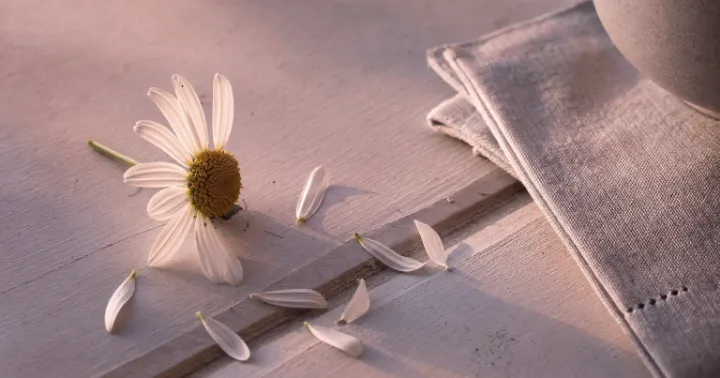
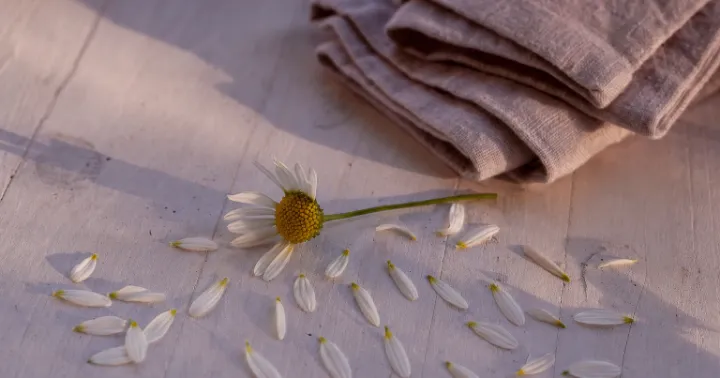
Une image de tête propre à chaque page : dix-neuf visuels refaits, sans tasse ni visage
Sept visuels servaient à deux ou trois pages à la fois, six autres tournaient
autour d'une tasse de café, un montrait un visage et deux des mains et des
verres. Dix-neuf images ont été refaites, une par page, dans la même écriture
que les autres (nature morte symbolique, lumière de fenêtre, rose et
lavande), sans personne, sans texte, sans tasse :

- jeu de plateau : deux pions sur le chemin d'un plateau, un dé
- quiz amoureux : deux cœurs de papier épinglés sur une ficelle
- qui de nous deux : deux ardoises vierges face à face
- amour ou habitude : deux paires de chaussons au pied du lit
- action ou vérité coquin : bandeau de soie et carte face cachée
- roue des gages : une roue de la fortune aux cases pastel
- action ou vérité : la bouteille au milieu des coussins
- Z'Amours : deux buzzers de plateau télé
- questions couple : un éventail de cartes vierges
- relation karmique : un fil rouge en boucle infinie sur du velours
- âme sœur : les deux moitiés d'un galet fendu
- quiz gênant : un mot rose glissé sous un coussin
- m'aime-t-il encore : deux oreillers, l'un froissé, l'autre intact
- pourquoi je ne trouve pas l'amour : la boussole à aiguille en cœur, sans tasse
- premier rendez-vous : une table de bistrot et deux chaises vides
- suis-je amoureux : la marguerite effeuillée, sans tasse
- amour ou crush : un casier de lycée, un cœur collé, un mot dans la grille
- qui pourrait : deux cartes face à face sur une table basse
[…]

diff --git a/static-site/build/config.js b/static-site/build/config.js
@@ -105,28 +105,28 @@ export const QUIZ_FEATURED = {
   testDistance:      { file: 'long-distance-map',         old: 'test-distance',       alt: { fr: 'Carte du monde avec deux épingles reliées par un fil rouge', en: 'World map with two pins linked by a red thread', es: 'Mapa del mundo con dos alfileres unidos por un hilo rojo', de: 'Weltkarte mit zwei durch einen roten Faden verbundenen Nadeln', it: 'Mappa del mondo con due spilli uniti da un filo rosso' } },
   testToxic:         { file: 'wilted-rose',               old: 'test-toxic',          alt: { fr: 'Rose rouge fanée posée sur une surface grise et froide', en: 'Wilted red rose lying on a cold grey surface', es: 'Rosa roja marchita sobre una superficie gris y fría', de: 'Verwelkte rote Rose auf kalter grauer Oberfläche', it: 'Rosa rossa appassita su una fredda superficie grigia' } },
   testPervers:       { file: 'masquerade-mask',           old: null,                  alt: { fr: 'Masque de théâtre blanc à deux visages sur fond sombre, symbole de la double personnalité', en: 'White two-faced theatre mask on a dark background, symbol of a double personality', es: 'Máscara de teatro blanca de dos caras sobre fondo oscuro, símbolo de la doble personalidad', de: 'Weiße zweigesichtige Theatermaske auf dunklem Hintergrund, Symbol der Doppelpersönlichkeit', it: 'Maschera teatrale bianca a due volti su sfondo scuro, simbolo della doppia personalità' } },
-  testAmourHabitude: { file: 'two-mugs-heart',            old: null,                  alt: { fr: 'Deux tasses de café côte à côte avec une vapeur en forme de cœur, symbole de la routine du couple', en: 'Two coffee mugs side by side with heart-shaped steam, a symbol of a couple\'s routine', es: 'Dos tazas de café juntas con vapor en forma de corazón, símbolo de la rutina de la pareja', de: 'Zwei Kaffeetassen nebeneinander mit herzförmigem Dampf, Symbol der Paar-Routine', it: 'Due tazze di caffè affiancate con vapore a forma di cuore, simbolo della routine di coppia' } },
+  testAmourHabitude:  { file: 'two-slippers-bed',            old: null,                  alt: { fr: "Deux paires de chaussons côte à côte au pied d'un lit fait, une rose et une lavande, dans la lumière du matin", en: "Two pairs of slippers side by side at the foot of a made bed, one pink and one lavender, in the morning light", es: "Dos pares de pantuflas una junto a la otra al pie de una cama hecha, unas rosas y otras lavanda, con la luz de la mañana", de: "Zwei Paar Hausschuhe nebeneinander am Fußende eines gemachten Betts, eines rosa und eines lavendelfarben, im Morgenlicht", it: "Due paia di pantofole affiancate ai piedi di un letto rifatto, un paio rosa e uno lavanda, nella luce del mattino" } },
   testCoupleSain:    { file: 'healthy-plant-heart',       old: 'test-couple-sain',    alt: { fr: 'Plante verte luxuriante en forme de cœur près d\'une fenêtre', en: 'Lush green heart-shaped plant by a sunny window', es: 'Planta verde con forma de corazón junto a una ventana', de: 'Üppige herzförmige grüne Pflanze am sonnigen Fenster', it: 'Rigogliosa pianta verde a forma di cuore vicino a una finestra' } },
   testMariage:       { file: 'wedding-chapel-rings',      old: 'test-mariage',        alt: { fr: "Deux alliances dorées devant l'autel d'une chapelle de mariage", en: 'Two golden wedding rings before a wedding chapel altar', es: 'Dos anillos de boda dorados ante el altar de una capilla', de: 'Zwei goldene Eheringe vor dem Altar einer Hochzeitskapelle', it: "Due fedi nuziali dorate davanti all'altare di una cappella" } },
   testDivorce:       { file: 'divorce-rings-papers',      old: 'test-divorce',        alt: { fr: 'Deux alliances séparées sur un document déchiré', en: 'Two wedding rings apart on a torn document', es: 'Dos anillos de boda separados sobre un documento roto', de: 'Zwei getrennte Eheringe auf einem zerrissenen Dokument', it: 'Due fedi separate su un documento strappato' } },
-  quizAmoureux:      { file: 'love-letter-heart',         old: 'quiz-amoureux',       alt: { fr: "Lettre d'amour manuscrite avec un stylo plume et un cœur rouge", en: 'Handwritten love letter with a fountain pen and red heart', es: 'Carta de amor manuscrita con pluma y corazón rojo', de: 'Handgeschriebener Liebesbrief mit Füller und rotem Herz', it: "Lettera d'amore scritta a mano con penna e cuore rosso" } },
+  quizAmoureux:       { file: 'paper-hearts-string',         old: 'quiz-amoureux',       alt: { fr: "Deux cœurs en papier, un rose et un lavande, accrochés ensemble par une petite pince en bois sur une ficelle tendue", en: "Two paper hearts, one pink and one lavender, pinned together with a small wooden clothespin on a taut string", es: "Dos corazones de papel, uno rosa y otro lavanda, sujetos juntos con una pequeña pinza de madera en un cordel tenso", de: "Zwei Papierherzen, eines rosa und eines lavendelfarben, mit einer kleinen Holzklammer gemeinsam an eine gespannte Schnur geheftet", it: "Due cuori di carta, uno rosa e uno lavanda, appesi insieme con una piccola molletta di legno a uno spago teso" } },
   quizCoquin:        { file: 'naughty-date-night',        old: 'quiz-coquin',         alt: { fr: 'Ambiance romantique : deux coupes de champagne, pétales et bougie sur un lit', en: 'Romantic setting: two champagne glasses, petals and a candle on a bed', es: 'Ambiente romántico: dos copas de champán, pétalos y una vela', de: 'Romantische Szene: zwei Sektgläser, Rosenblätter und eine Kerze', it: 'Atmosfera romantica: due calici di champagne, petali e una candela' } },
   quizMarrant:       { file: 'fun-confetti',              old: 'quiz-marrant',        alt: { fr: 'Confettis colorés et ballons de fête qui explosent', en: 'Colorful confetti and party balloons bursting', es: 'Confeti colorido y globos de fiesta estallando', de: 'Buntes Konfetti und platzende Partyballons', it: 'Coriandoli colorati e palloncini di festa che esplodono' } },
   quizKnowledge:     { file: 'knowledge-lightbulb-heart', old: 'quiz-knowledge',      alt: { fr: 'Ampoule vintage dont le filament forme un petit cœur rouge', en: 'Vintage lightbulb with a filament shaped like a red heart', es: 'Bombilla vintage con filamento en forma de corazón rojo', de: 'Vintage-Glühbirne mit herzförmigem roten Glühfaden', it: 'Lampadina vintage con filamento a forma di cuore rosso' } },
   quizMost:          { file: 'most-likely-trophy',        old: 'quiz-most',           alt: { fr: 'Trophée doré orné d\'un cœur rouge sous une pluie de confettis', en: 'Golden trophy with a red heart under falling confetti', es: 'Trofeo dorado con un corazón rojo bajo confeti', de: 'Goldener Pokal mit rotem Herz unter fallendem Konfetti', it: 'Trofeo dorato con un cuore rosso sotto i coriandoli' } },
-  questionsCouple:   { file: 'conversation-cards',        old: null,                  alt: { fr: 'Cartes de questions en éventail près de deux tasses de café', en: 'Question cards fanned out beside two cups of coffee', es: 'Tarjetas de preguntas en abanico junto a dos cafés', de: 'Aufgefächerte Fragekarten neben zwei Tassen Kaffee', it: 'Carte con domande a ventaglio accanto a due tazze di caffè' } },
+  questionsCouple:    { file: 'question-cards-fan',          old: null,                  alt: { fr: "Un éventail de cartes pastel vierges, roses, lavande et crème, étalées sur une nappe en lin, une carte légèrement soulevée", en: "A fan of blank pastel cards in pink, lavender and cream spread on a linen tablecloth, one card slightly lifted", es: "Un abanico de tarjetas pastel en blanco, rosas, lavanda y crema, extendidas sobre un mantel de lino, con una tarjeta ligeramente levantada", de: "Ein Fächer leerer Pastellkarten in Rosa, Lavendel und Creme auf einer Leinentischdecke, eine Karte leicht angehoben", it: "Un ventaglio di carte pastello bianche, rosa, lavanda e crema, sparse su una tovaglia di lino, con una carta leggermente sollevata" } },
   quizAdo:           { file: 'teen-polaroids',            old: 'quiz-ado',            alt: { fr: "Bracelets d'amitié et photos polaroïd sur un bureau", en: 'Friendship bracelets and polaroid photos on a desk', es: 'Pulseras de la amistad y fotos polaroid sobre un escritorio', de: 'Freundschaftsbänder und Polaroidfotos auf einem Schreibtisch', it: "Braccialetti dell'amicizia e foto polaroid su una scrivania" } },
   testParentalite:   { file: 'baby-shoes-toys',          old: 'test-parentalite',    alt: { fr: 'Petits chaussons de bébé et jouets en bois sur une couverture', en: 'Tiny baby shoes and wooden toys on a blanket', es: 'Pequeños zapatos de bebé y juguetes de madera sobre una manta', de: 'Winzige Babyschuhe und Holzspielzeug auf einer Decke', it: 'Scarpine da neonato e giochi di legno su una coperta' } },
   testEmmenager:     { file: 'moving-in-boxes',          old: null,                  alt: { fr: 'Cartons de déménagement dans un appartement lumineux et vide', en: 'Moving boxes in a bright empty apartment', es: 'Cajas de mudanza en un apartamento luminoso y vacío', de: 'Umzugskartons in einer hellen leeren Wohnung', it: 'Scatole per il trasloco in un appartamento luminoso e vuoto' } },
   testAstroPrenoms:  { file: 'zodiac-astrology',          old: 'test-astro-prenoms',  alt: { fr: 'Carte astrologique avec les constellations dorées du zodiaque', en: 'Astrology chart with golden zodiac constellations', es: 'Carta astrológica con constelaciones doradas del zodiaco', de: 'Astrologie-Karte mit goldenen Sternzeichen-Konstellationen', it: 'Carta astrologica con costellazioni dorate dello zodiaco' } },
   testDateNaissance: { file: 'birth-date-compatibility', old: null,                  alt: { fr: 'Deux calendriers ouverts côte à côte, une date entourée sur chacun, reliées par un fil rouge', en: 'Two open calendars side by side, a circled date on each, linked by a red thread', es: 'Dos calendarios abiertos uno al lado del otro, una fecha rodeada en cada uno, unidos por un hilo rojo', de: 'Zwei aufgeschlagene Kalender nebeneinander, je ein eingekreistes Datum, verbunden durch einen roten Faden', it: 'Due calendari aperti affiancati, una data cerchiata su ciascuno, uniti da un filo rosso' } },
   testJalousie:      { file: 'jealousy-phone',           old: 'test-jalousie',       alt: { fr: 'Smartphone retourné sur une table projetant une longue ombre', en: 'Smartphone face down on a table casting a long shadow', es: 'Smartphone boca abajo sobre una mesa con una larga sombra', de: 'Umgedrehtes Smartphone auf einem Tisch mit langem Schatten', it: 'Smartphone capovolto su un tavolo con una lunga ombra' } },
-  jeuActionVerite:   { file: 'conversation-cards',        old: null,                  alt: { fr: 'Cartes de jeu en éventail pour une partie d\'action ou vérité en couple', en: 'Fanned-out game cards for a couple truth or dare game', es: 'Cartas de juego en abanico para una partida de verdad o reto en pareja', de: 'Aufgefächerte Spielkarten für Wahrheit oder Pflicht zu zweit', it: 'Carte da gioco a ventaglio per una partita di obbligo o verità in coppia' } },
-  jeuActionVeriteHot:{ file: 'naughty-date-night',        old: null,                  alt: { fr: 'Ambiance tamisée avec bougie et pétales pour une soirée coquine à deux', en: 'Dimmed setting with candle and petals for a spicy night for two', es: 'Ambiente tenue con vela y pétalos para una noche picante en pareja', de: 'Gedämpfte Stimmung mit Kerze und Blütenblättern für einen pikanten Abend zu zweit', it: 'Atmosfera soffusa con candela e petali per una serata piccante in due' } },
-  testSuisJeAmoureux:{ file: 'daisy-petals',              old: null,                  alt: { fr: "Une marguerite posée sur une table en bois clair, la moitié de ses pétales déjà effeuillés et éparpillés à côté", en: 'A daisy lying on a pale wooden table, half of its petals already plucked and scattered beside it', es: 'Una margarita sobre una mesa de madera clara, con la mitad de los pétalos ya arrancados y esparcidos al lado', de: 'Ein Gänseblümchen auf einem hellen Holztisch, die Hälfte der Blütenblätter schon abgezupft und daneben verstreut', it: 'Una margherita su un tavolo di legno chiaro, con metà dei petali già sfogliati e sparsi accanto' } },
-  testKarmique:      { file: 'zodiac-astrology',          old: null,                  alt: { fr: 'Carte céleste dorée évoquant le lien karmique entre deux personnes', en: 'Golden celestial chart evoking the karmic bond between two people', es: 'Carta celeste dorada que evoca el vínculo kármico entre dos personas', de: 'Goldene Himmelskarte als Sinnbild der karmischen Verbindung zweier Menschen', it: 'Carta celeste dorata che evoca il legame karmico tra due persone' } },
-  testAmeSoeur:      { file: 'soulmate-two-mugs',         old: null,                  alt: { fr: "Deux tasses en céramique de couleurs différentes posées côte à côte, l'une contre l'autre", en: 'Two ceramic mugs of different colours standing side by side, leaning against each other', es: 'Dos tazas de cerámica de colores distintos, una junto a la otra, apoyadas entre sí', de: 'Zwei Keramiktassen in unterschiedlichen Farben, die nebeneinander aneinandergelehnt stehen', it: "Due tazze di ceramica di colori diversi, una accanto all'altra, appoggiate l'una all'altra" } },
-  quizGenant:        { file: 'awkward-blush-note',        old: 'quiz-genant',         alt: { fr: 'Note rose avec un émoji gêné et une tasse renversée', en: 'Pink note with an embarrassed emoji and a spilled cup', es: 'Nota rosa con un emoji avergonzado y una taza derramada', de: 'Rosa Notiz mit verlegenem Emoji und verschütteter Tasse', it: 'Biglietto rosa con emoji imbarazzata e tazza rovesciata' } },
+  jeuActionVerite:    { file: 'spinning-bottle-cushions',    old: null,                  alt: { fr: "Une bouteille en verre couchée sur un parquet au milieu d'un cercle de coussins roses, lavande et crème, une guirlande lumineuse derrière", en: "A glass bottle lying on a wooden floor in the middle of a circle of pink, lavender and cream cushions, string lights glowing behind", es: "Una botella de vidrio tumbada en el suelo de madera en medio de un círculo de cojines rosas, lavanda y crema, con luces de guirnalda detrás", de: "Eine Glasflasche liegt auf einem Holzboden inmitten eines Kreises aus rosa, lavendelfarbenen und cremefarbenen Kissen, dahinter eine leuchtende Lichterkette", it: "Una bottiglia di vetro distesa su un pavimento di legno al centro di un cerchio di cuscini rosa, lavanda e crema, con una ghirlanda luminosa dietro" } },
+  jeuActionVeriteHot: { file: 'silk-blindfold-card',         old: null,                  alt: { fr: "Un bandeau de soie rouge plié et une carte à jouer face cachée sur des draps de satin sombre, une bougie floue en arrière-plan", en: "A folded red silk blindfold and a playing card face down on dark satin sheets, a blurred candle in the background", es: "Un antifaz de seda roja doblado y una carta boca abajo sobre sábanas de satén oscuro, con una vela desenfocada al fondo", de: "Eine gefaltete rote Seidenaugenbinde und eine verdeckte Spielkarte auf dunklen Satinlaken, im Hintergrund eine unscharfe Kerze", it: "Una benda di seta rossa piegata e una carta da gioco coperta su lenzuola di raso scuro, con una candela sfocata sullo sfondo" } },
+  testSuisJeAmoureux: { file: 'daisy-petals',                old: null,                  alt: { fr: "Une marguerite presque entièrement effeuillée sur une table en bois clair, ses pétales éparpillés à côté, une serviette en lin pliée", en: "A daisy almost fully plucked on a pale wooden table, its petals scattered beside it, a folded linen napkin", es: "Una margarita casi deshojada del todo sobre una mesa de madera clara, con los pétalos esparcidos al lado y una servilleta de lino doblada", de: "Ein fast vollständig abgezupftes Gänseblümchen auf einem hellen Holztisch, die Blütenblätter daneben verstreut, eine gefaltete Leinenserviette", it: "Una margherita quasi del tutto sfogliata su un tavolo di legno chiaro, i petali sparsi accanto e un tovagliolo di lino piegato" } },
+  testKarmique:       { file: 'red-thread-infinity',         old: null,                  alt: { fr: "Un fil rouge posé en forme de boucle infinie sur du velours sombre, quelques petites étoiles dorées autour", en: "A red thread laid out as an infinity loop on dark velvet, a few tiny golden stars scattered around", es: "Un hilo rojo dispuesto en forma de bucle infinito sobre terciopelo oscuro, con algunas pequeñas estrellas doradas alrededor", de: "Ein roter Faden, als Unendlichkeitsschleife auf dunklem Samt gelegt, ein paar winzige goldene Sterne darum", it: "Un filo rosso disposto a forma di infinito su velluto scuro, con qualche piccola stella dorata intorno" } },
+  testAmeSoeur:       { file: 'two-halves-stone',            old: null,                  alt: { fr: "Les deux moitiés d'un galet fendu posées à quelques centimètres l'une de l'autre sur du lin clair, leurs bords cassés faits pour s'emboîter", en: "The two halves of a split pebble lying a few centimetres apart on pale linen, their broken edges made to fit together", es: "Las dos mitades de un guijarro partido a pocos centímetros una de otra sobre lino claro, con los bordes rotos hechos para encajar", de: "Die beiden Hälften eines gespaltenen Kieselsteins liegen wenige Zentimeter voneinander entfernt auf hellem Leinen, ihre Bruchkanten passen genau zusammen", it: "Le due metà di un sasso spezzato a pochi centimetri l'una dall'altra su lino chiaro, con i bordi rotti fatti per incastrarsi" } },
+  quizGenant:         { file: 'hidden-pink-note',            old: 'quiz-genant',         alt: { fr: "Un mot en papier rose plié, à moitié glissé sous un coussin lavande sur un canapé, un coin qui dépasse", en: "A folded pink paper note half tucked under a lavender cushion on a sofa, one corner peeking out", es: "Una nota de papel rosa doblada, medio escondida bajo un cojín lavanda en un sofá, con una esquina asomando", de: "Ein gefalteter rosa Zettel, halb unter ein lavendelfarbenes Kissen auf einem Sofa geschoben, eine Ecke schaut heraus", it: "Un biglietto di carta rosa piegato, mezzo nascosto sotto un cuscino lavanda su un divano, con un angolo che spunta" } },
   testLangageAmour:  { file: 'love-languages-gift',       old: 'test-langage-amour',  alt: { fr: "Petit cadeau, mot d'amour et cœur rouge sur une table", en: 'A small gift, love note and red heart on a table', es: 'Un pequeño regalo, nota de amor y corazón rojo', de: 'Kleines Geschenk, Liebesnotiz und rotes Herz auf einem Tisch', it: "Un piccolo regalo, biglietto d'amore e cuore rosso" } },
   testPersonnalite:  { file: 'love-personality-mirror',   old: null,                  alt: { fr: "Quatre cœurs de couleurs différentes posés côte à côte sur un fond clair", en: 'Four hearts in different colours side by side on a light background', es: 'Cuatro corazones de colores distintos, uno al lado del otro, sobre fondo claro', de: 'Vier Herzen in verschiedenen Farben nebeneinander auf hellem Hintergrund', it: 'Quattro cuori di colori diversi, uno accanto all\'altro, su fondo chiaro' } },
   quizTuPreferes:    { file: 'would-you-rather-doors',    old: 'quiz-tu-preferes',    alt: { fr: 'Deux portes, une rose et une bleue, symbolisant un choix', en: 'Two doors, one pink and one blue, symbolizing a choice', es: 'Dos puertas, una rosa y una azul, que simbolizan una elección', de: 'Zwei Türen, eine rosa und eine blaue, als Symbol einer Wahl', it: 'Due porte, una rosa e una blu, simbolo di una scelta' } },
@@ -140,25 +140,25 @@ export const QUIZ_FEATURED = {
   testSecret:        { file: 'heart-on-window',            old: null,                  alt: { fr: "Un cœur dessiné du bout du doigt sur une vitre embuée, devant une lumière douce", en: 'A heart drawn with a fingertip on a misted window, in front of soft light', es: 'Un corazón dibujado con el dedo en un cristal empañado, ante una luz suave', de: 'Ein mit dem Finger auf eine beschlagene Scheibe gemaltes Herz vor sanftem Licht', it: "Un cuore disegnato con un dito su un vetro appannato, davanti a una luce soffusa" } },
   testDistanceAime:  { file: 'night-call-glow',            old: null,                  alt: { fr: "Un téléphone posé sur un lit la nuit, l'écran allumé qui éclaire un halo en forme de cœur", en: 'A phone lying on a bed at night, its lit screen casting a heart-shaped glow', es: 'Un móvil sobre una cama de noche, con la pantalla encendida proyectando un halo con forma de corazón', de: 'Ein Handy nachts auf einem Bett, dessen leuchtender Bildschirm einen herzförmigen Schein wirft', it: "Un telefono su un letto di notte, lo schermo acceso che proietta un alone a forma di cuore" } },
   testEx:            { file: 'unsent-message',             old: null,                  alt: { fr: "Un message écrit mais jamais envoyé sur un écran de téléphone, dans une pièce sombre", en: 'A message typed but never sent on a phone screen, in a dark room', es: 'Un mensaje escrito pero nunca enviado en la pantalla de un móvil, en una habitación a oscuras', de: 'Eine getippte, nie gesendete Nachricht auf einem Handybildschirm in einem dunklen Zimmer', it: "Un messaggio scritto ma mai inviato sullo schermo di un telefono, in una stanza buia" } },
-  testAimeEncore:    { file: 'two-mugs-one-cold',           old: null,                  alt: { fr: "Deux tasses de café sur une table de cuisine : l'une fume encore, l'autre a refroidi sans être touchée", en: 'Two coffee mugs on a kitchen table: one still steaming, the other gone cold, untouched', es: 'Dos tazas de café en una mesa de cocina: una todavía humea, la otra se ha enfriado sin tocar', de: 'Zwei Kaffeetassen auf einem Küchentisch: eine dampft noch, die andere ist unberührt kalt geworden', it: "Due tazze di caffè su un tavolo di cucina: una fuma ancora, l'altra si è raffreddata senza essere toccata" } },
+  testAimeEncore:     { file: 'two-pillows-one-untouched',   old: null,                  alt: { fr: "Un lit vu de dessus avec deux oreillers : l'un froissé, le drap rabattu, l'autre parfaitement lisse et intact", en: "A bed seen from above with two pillows: one crumpled with the sheet turned back, the other perfectly smooth and untouched", es: "Una cama vista desde arriba con dos almohadas: una arrugada con la sábana retirada, la otra perfectamente lisa e intacta", de: "Ein Bett von oben mit zwei Kissen: eines zerknittert mit zurückgeschlagenem Laken, das andere vollkommen glatt und unberührt", it: "Un letto visto dall'alto con due cuscini: uno spiegazzato con il lenzuolo ripiegato, l'altro perfettamente liscio e intatto" } },
   testEmprise:       { file: 'open-birdcage-window',        old: null,                  alt: { fr: "Une cage à oiseaux vide, la porte grande ouverte, posée sur le rebord d'une fenêtre avec quelques plumes", en: 'An empty birdcage with its door wide open on a windowsill, a few feathers left behind', es: 'Una jaula de pájaros vacía con la puerta abierta de par en par en el alféizar de una ventana, con algunas plumas', de: 'Ein leerer Vogelkäfig mit weit offener Tür auf einer Fensterbank, ein paar Federn liegen daneben', it: 'Una gabbia per uccelli vuota con la porta spalancata sul davanzale di una finestra, con qualche piuma' } },
-  testTrouverAmour:  { file: 'compass-heart-map',           old: null,                  alt: { fr: "Une boussole en laiton ouverte sur une nappe en lin, l'aiguille remplacée par un petit cœur rose, à côté d'une tasse de café et d'une carte pliée", en: 'An open brass compass on a linen tablecloth, its needle replaced by a small pink heart, next to a cup of coffee and a folded map', es: 'Una brújula de latón abierta sobre un mantel de lino, con la aguja sustituida por un pequeño corazón rosa, junto a una taza de café y un mapa doblado', de: 'Ein geöffneter Messingkompass auf einer Leinentischdecke, die Nadel durch ein kleines rosa Herz ersetzt, neben einer Kaffeetasse und einer gefalteten Karte', it: "Una bussola di ottone aperta su una tovaglia di lino, con l'ago sostituito da un piccolo cuore rosa, accanto a una tazza di caffè e a una mappa piegata" } },
+  testTrouverAmour:   { file: 'compass-heart-map',           old: null,                  alt: { fr: "Une boussole en laiton ouverte sur une nappe en lin, l'aiguille remplacée par un petit cœur rose, à côté d'une carte pliée et d'un brin de lavande", en: "An open brass compass on a linen tablecloth, its needle replaced by a small pink heart, next to a folded map and a sprig of lavender", es: "Una brújula de latón abierta sobre un mantel de lino, con la aguja sustituida por un pequeño corazón rosa, junto a un mapa doblado y una ramita de lavanda", de: "Ein geöffneter Messingkompass auf einer Leinentischdecke, die Nadel durch ein kleines rosa Herz ersetzt, neben einer gefalteten Karte und einem Lavendelzweig", it: "Una bussola di ottone aperta su una tovaglia di lino, con l'ago sostituito da un piccolo cuore rosa, accanto a una mappa piegata e a un rametto di lavanda" } },
   testAmourAmi:      { file: 'friendship-bracelets-heart',  old: null,                  alt: { fr: "Deux bracelets d'amitié tressés, un rose et un lavande, entrelacés en forme de cœur sur une table en bois", en: 'Two braided friendship bracelets, one pink and one lavender, intertwined into a heart on a wooden table', es: 'Dos pulseras de la amistad trenzadas, una rosa y otra lavanda, entrelazadas en forma de corazón sobre una mesa de madera', de: 'Zwei geflochtene Freundschaftsbändchen, eines rosa und eines lavendelblau, herzförmig verschlungen auf einem Holztisch', it: "Due braccialetti dell'amicizia intrecciati, uno rosa e uno lavanda, uniti a forma di cuore su un tavolo di legno" } },
   testChargeMentale: { file: 'sticky-notes-fridge',        old: null,                  alt: { fr: "Une porte de réfrigérateur couverte de listes et de pense-bêtes qui se chevauchent", en: 'A fridge door covered in overlapping lists and reminder notes', es: 'Una puerta de nevera cubierta de listas y notas recordatorias superpuestas', de: 'Eine Kühlschranktür voller sich überlappender Listen und Merkzettel', it: "Una porta di frigorifero coperta di liste e promemoria sovrapposti" } },
-  quizRencontre:     { file: 'two-coffees-talking',        old: null,                  alt: { fr: "Deux tasses de café face à face sur une table de bistrot, en pleine conversation", en: 'Two coffee cups facing each other on a bistro table, mid-conversation', es: 'Dos tazas de café frente a frente en una mesa de bistró, en plena conversación', de: 'Zwei Kaffeetassen einander gegenüber auf einem Bistrotisch, mitten im Gespräch', it: "Due tazze di caffè una di fronte all'altra su un tavolino, in piena conversazione" } },
-  zamours:           { file: 'conversation-cards',         old: null,                  alt: { fr: 'Cartes de questions en éventail pour jouer aux Z\'Amours en couple', en: 'Fanned-out question cards for playing the Newlywed Game as a couple', es: 'Tarjetas de preguntas en abanico para jugar en pareja', de: 'Aufgefächerte Fragekarten für das Paar-Quizspiel', it: 'Carte con domande a ventaglio per giocare in coppia' } },
+  quizRencontre:      { file: 'bistro-table-two-chairs',     old: null,                  alt: { fr: "Une petite table de bistrot en terrasse avec deux chaises vides face à face, une fleur dans un vase fin, des guirlandes lumineuses floues derrière", en: "A small bistro table on a terrace with two empty chairs facing each other, a flower in a slim vase, blurred string lights behind", es: "Una pequeña mesa de bistró en una terraza con dos sillas vacías frente a frente, una flor en un jarrón fino y luces de guirnalda desenfocadas detrás", de: "Ein kleiner Bistrotisch auf einer Terrasse mit zwei leeren Stühlen einander gegenüber, eine Blume in einer schmalen Vase, dahinter unscharfe Lichterketten", it: "Un tavolino da bistrot su una terrazza con due sedie vuote una di fronte all'altra, un fiore in un vaso sottile e ghirlande luminose sfocate dietro" } },
+  zamours:            { file: 'game-show-buzzers',           old: null,                  alt: { fr: "Deux gros boutons de jeu télévisé, un rose et un violet, sur un pupitre brillant sous les lumières d'un plateau", en: "Two large game show buzzer buttons, one pink and one violet, on a glossy desk under studio lights", es: "Dos grandes pulsadores de concurso de televisión, uno rosa y otro violeta, sobre un pupitre brillante bajo las luces del plató", de: "Zwei große Buzzer einer Fernsehshow, einer rosa und einer violett, auf einem glänzenden Pult unter Studiolicht", it: "Due grossi pulsanti da quiz televisivo, uno rosa e uno viola, su un bancone lucido sotto le luci di uno studio" } },
   testVacances:      { file: 'carte-vacances-couple',      old: null,                  alt: { fr: 'Carte du monde stylisée rose et violette avec des épingles en forme de cœur, illustrant le test où partir en vacances en couple' } },
-  jeuPlateau:        { file: 'matching-puzzle',            old: null,                  alt: { fr: 'Deux pièces de puzzle emboîtées, comme deux pions sur un plateau', en: 'Two interlocking puzzle pieces, like two pawns on a board', es: 'Dos piezas de puzle encajadas, como dos fichas en un tablero', de: 'Zwei ineinandergreifende Puzzleteile, wie zwei Figuren auf einem Brett', it: 'Due tessere di puzzle incastrate, come due pedine su un tabellone' } },
-  jeuQuiDeNous:      { file: 'two-mugs-heart',              old: null,                  alt: { fr: 'Deux tasses face à face formant un cœur, comme deux points de vue qui se rejoignent', en: 'Two mugs facing each other forming a heart, like two points of view meeting', es: 'Dos tazas enfrentadas que forman un corazón, como dos puntos de vista que se encuentran', de: 'Zwei Tassen, die einander gegenüberstehen und ein Herz bilden, wie zwei Sichtweisen, die sich treffen', it: 'Due tazze una di fronte all\'altra che formano un cuore, come due punti di vista che si incontrano' } },
-  jeuGages:          { file: 'most-likely-trophy',        old: null,                  alt: { fr: 'Trophée doré et confettis pour une soirée de gages en couple', en: 'Golden trophy and confetti for a couple forfeit night', es: 'Trofeo dorado y confeti para una noche de prendas en pareja', de: 'Goldener Pokal und Konfetti für einen Abend mit Strafen zu zweit', it: 'Trofeo dorato e coriandoli per una serata di penitenze in coppia' } },
+  jeuPlateau:         { file: 'board-path-pawns',            old: null,                  alt: { fr: "Deux pions en bois, un rose et un lavande, côte à côte sur le chemin dessiné d'un plateau de jeu, un dé blanc posé à côté", en: "Two wooden pawns, one pink and one lavender, side by side on the drawn path of a board game, a white die resting nearby", es: "Dos peones de madera, uno rosa y otro lavanda, uno al lado del otro en el camino dibujado de un tablero, con un dado blanco al lado", de: "Zwei Holzspielfiguren, eine rosa und eine lavendelfarben, nebeneinander auf dem gezeichneten Pfad eines Spielbretts, ein weißer Würfel daneben", it: "Due pedine di legno, una rosa e una lavanda, fianco a fianco sul percorso disegnato di un tabellone, con un dado bianco accanto" } },
+  jeuQuiDeNous:       { file: 'two-blank-signs',             old: null,                  alt: { fr: "Deux petites ardoises vierges sur chevalets, une rose et une lavande, face à face sur une nappe en lin, comme en attente de deux réponses", en: "Two small blank sign boards on easels, one pink and one lavender, facing each other on a linen tablecloth, as if waiting for two answers", es: "Dos pequeñas pizarras en blanco sobre caballetes, una rosa y otra lavanda, frente a frente en un mantel de lino, como esperando dos respuestas", de: "Zwei kleine leere Schilder auf Staffeleien, eines rosa und eines lavendelfarben, einander gegenüber auf einer Leinentischdecke, als warteten sie auf zwei Antworten", it: "Due piccole lavagnette bianche su cavalletti, una rosa e una lavanda, una di fronte all'altra su una tovaglia di lino, come in attesa di due risposte" } },
+  jeuGages:           { file: 'pastel-prize-wheel',          old: null,                  alt: { fr: "Une petite roue de la fortune en bois peint aux cases pastel, rose, lavande, crème et menthe, posée sur une table de cuisine", en: "A small painted wooden prize wheel with pastel segments in pink, lavender, cream and mint, standing on a kitchen table", es: "Una pequeña ruleta de madera pintada con casillas pastel, rosa, lavanda, crema y menta, sobre una mesa de cocina", de: "Ein kleines bemaltes Glücksrad aus Holz mit Pastellfeldern in Rosa, Lavendel, Creme und Mint, auf einem Küchentisch", it: "Una piccola ruota della fortuna in legno dipinto con caselle pastello, rosa, lavanda, crema e menta, su un tavolo di cucina" } },
   jeuDilemmes:       { file: 'dilemma-scales-choice',    old: null,                  alt: { fr: 'Une balance en équilibre : un cadeau rose d\'un côté, un poids violet de l\'autre', en: 'A balanced scale: a pink gift on one side, a purple weight on the other', es: 'Una balanza en equilibrio: un regalo rosa a un lado, una pesa morada al otro', de: 'Eine Waage im Gleichgewicht: ein rosa Geschenk auf der einen Seite, ein violettes Gewicht auf der anderen', it: 'Una bilancia in equilibrio: un regalo rosa da un lato, un peso viola dall\'altro' } },
   jeuxCouple:        { file: 'game-night-table',            old: null,                  alt: { fr: 'Soirée jeux à deux vue de dessus : plateau, pions roses et violets, dés, cartes, deux verres de vin et une bougie', en: 'Games night for two seen from above: a board, pink and purple pawns, dice, cards, two glasses of wine and a candle', es: 'Noche de juegos en pareja vista desde arriba: tablero, fichas rosas y moradas, dados, cartas, dos copas de vino y una vela', de: 'Spieleabend zu zweit von oben: Spielbrett, rosa und lila Spielfiguren, Würfel, Karten, zwei Weingläser und eine Kerze', it: 'Serata giochi in due vista dall\'alto: tabellone, pedine rosa e viola, dadi, carte, due bicchieri di vino e una candela' } },
   testAmourAmitie:   { file: 'panneau-amour-amitie',      old: null,                  alt: { fr: 'Un panneau de bois à deux flèches opposées : AMOUR en rose d\'un côté, AMITIÉ en violet de l\'autre', en: 'A wooden signpost with two opposite arrows: AMOUR in pink one way, AMITIÉ in purple the other', es: 'Un poste de madera con dos flechas opuestas: AMOUR en rosa hacia un lado, AMITIÉ en violeta hacia el otro', de: 'Ein Holzwegweiser mit zwei entgegengesetzten Pfeilen: AMOUR in Rosa, AMITIÉ in Violett', it: 'Un cartello di legno con due frecce opposte: AMOUR in rosa da una parte, AMITIÉ in viola dall\'altra' } },
-  testCrush:         { file: 'crush-couloir-lycee',       old: null,                  alt: { fr: 'Une adolescente sourit en regardant son téléphone, adossée à un casier de lycée', en: 'A teenage girl smiles at her phone, leaning against a school locker', es: 'Una adolescente sonríe mirando su móvil, apoyada en una taquilla del instituto', de: 'Eine Jugendliche lächelt auf ihr Handy, an einen Schulspind gelehnt', it: 'Una ragazza sorride guardando il telefono, appoggiata a un armadietto della scuola' } },
+  testCrush:          { file: 'locker-heart-note',           old: null,                  alt: { fr: "La porte d'un casier de lycée en métal clair avec un petit autocollant en forme de cœur et un mot plié glissé dans la grille", en: "A pale metal school locker door with a small heart-shaped sticker and a folded note slipped into the vent", es: "La puerta de una taquilla escolar de metal claro con una pequeña pegatina en forma de corazón y una nota doblada metida en la rejilla", de: "Eine helle Metalltür eines Schulspinds mit einem kleinen herzförmigen Aufkleber und einem gefalteten Zettel im Lüftungsschlitz", it: "La porta di un armadietto scolastico in metallo chiaro con un piccolo adesivo a forma di cuore e un biglietto piegato infilato nella griglia" } },
   testFinCouple:     { file: 'corde-effilochee',           old: null,                  alt: { fr: 'Une corde tendue, effilochée en son centre, dont il ne reste que quelques fils', en: 'A taut rope, frayed at its centre, with only a few threads still holding', es: 'Una cuerda tensa, deshilachada en el centro, de la que solo quedan unos hilos', de: 'Ein gespanntes Seil, in der Mitte ausgefranst, nur noch wenige Fäden halten', it: 'Una corda tesa, sfilacciata al centro, di cui restano solo pochi fili' } },
   pourContre:        { file: 'pour-contre-pouces',       old: null,                  alt: { fr: 'Un pouce levé rose et un pouce baissé violet séparés par un cœur, pour le jeu pour ou contre en couple', en: 'A pink thumbs-up and a purple thumbs-down separated by a heart, for the for or against couple game', es: 'Un pulgar hacia arriba rosa y uno hacia abajo morado separados por un corazón, para el juego a favor o en contra en pareja', de: 'Ein rosa Daumen hoch und ein violetter Daumen runter, getrennt durch ein Herz, für das Paarspiel dafür oder dagegen', it: 'Un pollice in su rosa e un pollice in giù viola separati da un cuore, per il gioco pro o contro in coppia' } },
-  jeuJamais:         { file: 'jamais-doigts-leves',     old: null,                  alt: { fr: "Deux mains qui comptent sur leurs doigts levés lors d'une partie de je n'ai jamais en couple", en: 'Two hands counting on raised fingers during a couples never have I ever game', es: 'Dos manos contando con los dedos levantados durante una partida de yo nunca en pareja', de: 'Zwei Hände, die beim Ich hab noch nie für Paare mit erhobenen Fingern zählen', it: 'Due mani che contano sulle dita alzate durante una partita di non ho mai in coppia' } },
-  jeuQuiPourrait:    { file: 'qui-pourrait-duel',      old: null,                  alt: { fr: 'Deux cartes de jeu, une verte et une jaune, posées face à face sur une table entre deux personnes', en: 'Two game cards, one green and one yellow, facing each other on a table between two people', es: 'Dos cartas de juego, una verde y una amarilla, frente a frente sobre una mesa entre dos personas', de: 'Zwei Spielkarten, eine grüne und eine gelbe, einander gegenüber auf einem Tisch zwischen zwei Personen', it: 'Due carte da gioco, una verde e una gialla, una di fronte all\'altra su un tavolo tra due persone' } },
+  jeuJamais:          { file: 'candles-blown-out',           old: null,                  alt: { fr: "Une rangée de petites bougies pastel sur un plateau en bois, trois déjà soufflées avec un filet de fumée, les autres encore allumées", en: "A row of small pastel candles on a wooden tray, three already blown out with wisps of smoke, the others still burning", es: "Una fila de pequeñas velas pastel sobre una bandeja de madera, tres ya apagadas con un hilo de humo, las demás aún encendidas", de: "Eine Reihe kleiner Pastellkerzen auf einem Holztablett, drei schon ausgeblasen mit dünnen Rauchfäden, die anderen brennen noch", it: "Una fila di piccole candele pastello su un vassoio di legno, tre già spente con un filo di fumo, le altre ancora accese" } },
+  jeuQuiPourrait:     { file: 'two-cards-face-off',          old: null,                  alt: { fr: "Deux cartes vierges posées face à face sur une petite table ronde en bois, une verte et une jaune, comme prêtes à être retournées", en: "Two blank cards lying face to face on a small round wooden table, one green and one yellow, as if about to be flipped", es: "Dos cartas en blanco frente a frente sobre una pequeña mesa redonda de madera, una verde y otra amarilla, como a punto de darse la vuelta", de: "Zwei leere Karten liegen sich auf einem kleinen runden Holztisch gegenüber, eine grün und eine gelb, als würden sie gleich umgedreht", it: "Due carte bianche una di fronte all'altra su un tavolino rotondo di legno, una verde e una gialla, come pronte a essere girate" } },
   jeuOuiNon:         { file: 'oui-non-vote',           old: null,                  alt: { fr: 'Deux cartes de vote face à face, une verte pour le oui et une rouge pour le non', en: 'Two voting cards facing each other, a green one for yes and a red one for no', es: 'Dos tarjetas de voto frente a frente, una verde para el sí y una roja para el no', de: 'Zwei Abstimmungskarten einander gegenüber, eine grüne für Ja und eine rote für Nein', it: 'Due carte per votare una di fronte all\'altra, una verde per il sì e una rossa per il no' } },
   jeuPhrases:        { file: 'deux-bulles-phrase',    old: null,                  alt: { fr: 'Deux bulles de conversation, une rose et une violette, qui finissent chacune par trois points de suspension', en: 'Two speech bubbles, one pink and one purple, each ending in three dots', es: 'Dos bocadillos de conversación, uno rosa y otro morado, que terminan con tres puntos suspensivos', de: 'Zwei Sprechblasen, eine rosa und eine violette, die beide mit drei Punkten enden', it: 'Due fumetti, uno rosa e uno viola, che finiscono entrambi con tre puntini' } },
   quizTentation:     { file: 'island-bonfire',            old: null,                  alt: { fr: 'Feu de camp sur une plage tropicale la nuit, avec palmiers et pleine lune', en: 'Bonfire on a tropical beach at night, with palm trees and a full moon', es: 'Hoguera en una playa tropical de noche, con palmeras y luna llena', de: 'Lagerfeuer an einem tropischen Strand bei Nacht, mit Palmen und Vollmond', it: 'Falò su una spiaggia tropicale di notte, con palme e luna piena' } },
